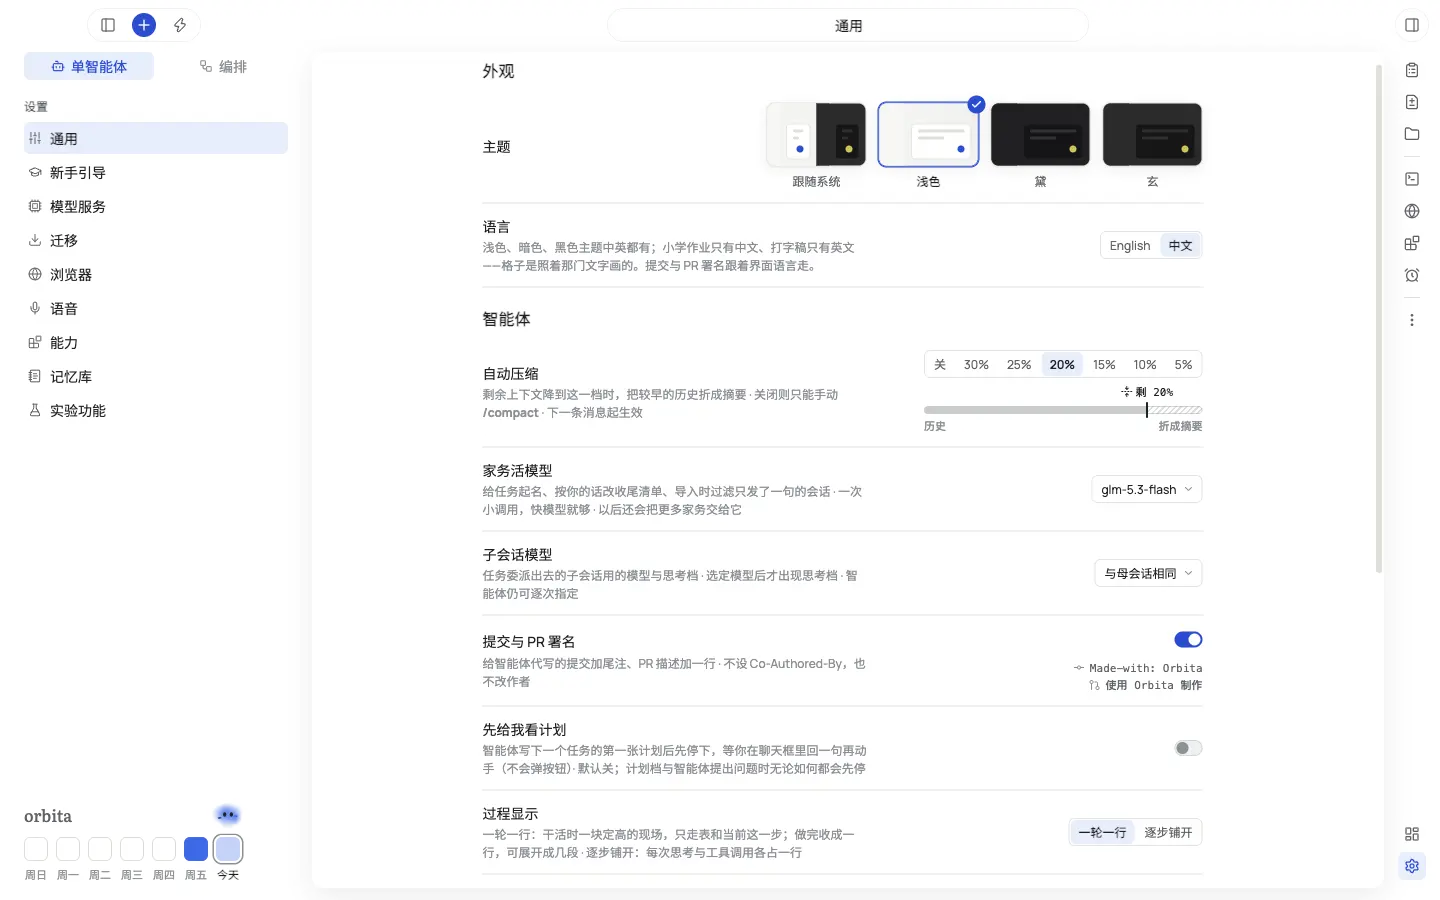
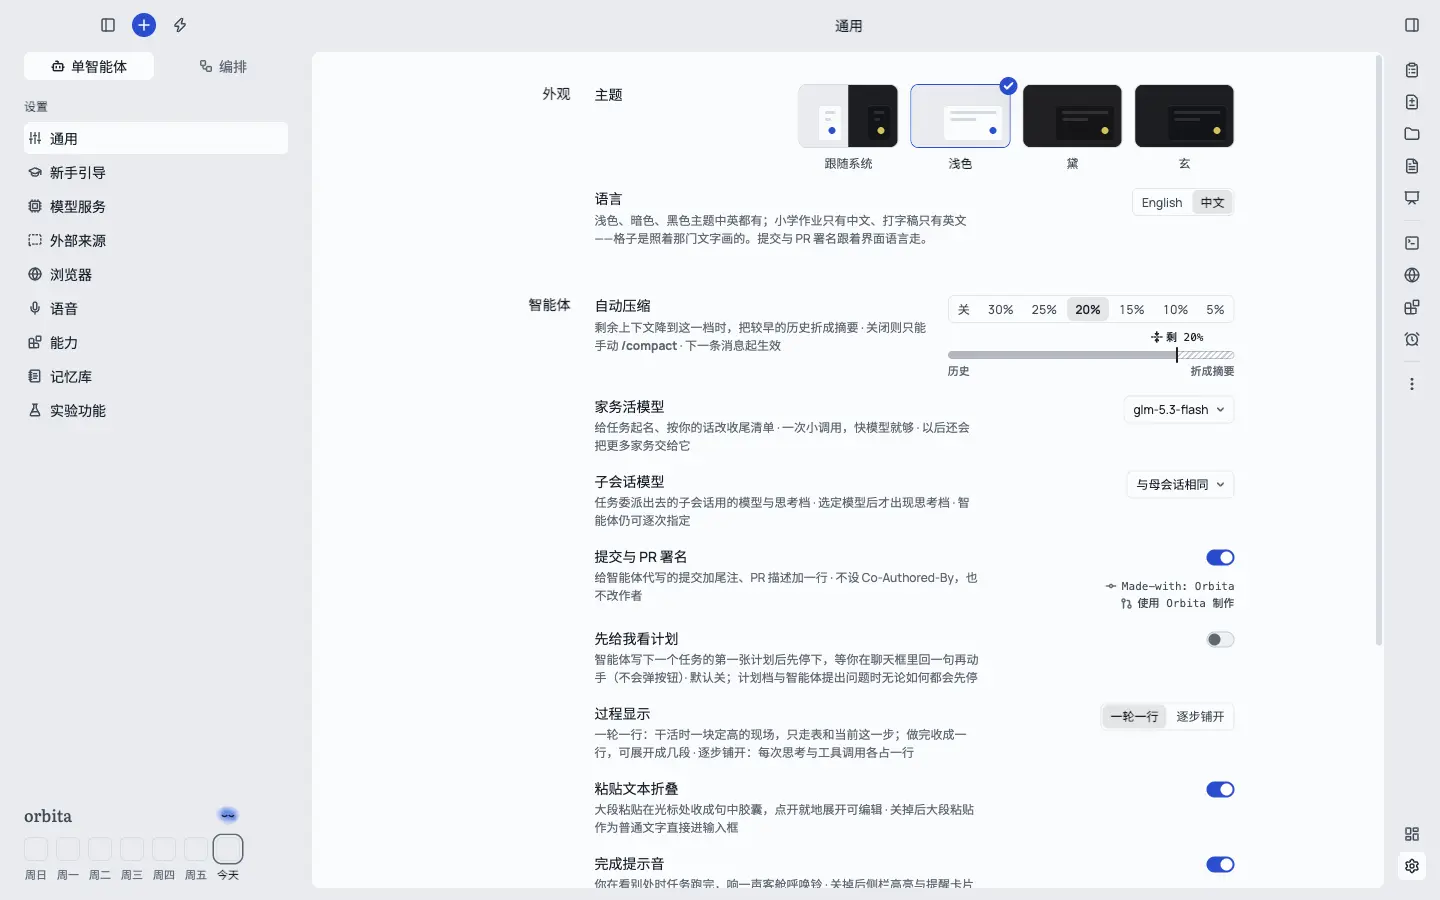
feat(settings): 新手引导重拍「模型分工」与「别的工具里的会话」两张截图
- 第 1 章第 3 页「模型分工」（截图 general）：设置侧栏里还写着「迁移」，按引导的可重跑脚本重拍
  （scripts/onboarding-shots：seed.mjs files → capture.mjs --shot general），浅色与玄各一张。
  这张图里「家务活模型」的说明原写「导入时过滤只发了一句的会话」，那项检查已随聊天记录导入退场，
  文案一并改掉（见同批 renderer commit）后再拍。
- 第 4 页「别的工具里的会话」（截图 external-sources）：外部来源页拆成两块后重拍；框名不变
  （来源清单、第一个开关、只读徽标），shot-boxes.ts 随截图更新。

Made-with: Orbita

diff --git a/src/renderer/src/features/onboarding/shot-boxes.ts b/src/renderer/src/features/onboarding/shot-boxes.ts
@@ -371,20 +371,20 @@ export const SHOT_BOXES: Readonly<Record<string, Readonly<Record<string, Box>>>>
   },
   "external-sources": {
     "list": {
-      "x": 0.299,
-      "y": 0.1467,
-      "w": 0.5986,
+      "x": 0.2726,
+      "y": 0.1711,
+      "w": 0.625,
       "h": 0.5911
     },
     "toggle": {
       "x": 0.8663,
-      "y": 0.1611,
+      "y": 0.1856,
       "w": 0.0194,
       "h": 0.0267
     },
     "readonly": {
-      "x": 0.4017,
-      "y": 0.0844,
+      "x": 0.3892,
+      "y": 0.0833,
       "w": 0.0347,
       "h": 0.02
     }
@@ -419,16 +419,16 @@ export const SHOT_BOXES: Readonly<Record<string, Readonly<Record<string, Box>>>>
   },
   "general": {
     "chore": {
-      "x": 0.3351,
-      "y": 0.497,
-      "w": 0.5,
-      "h": 0.0933
+      "x": 0.4128,
+      "y": 0.4306,
+      "w": 0.4444,
+      "h": 0.0833
     },
     "sub": {
-      "x": 0.3351,
-      "y": 0.5903,
-      "w": 0.5,
-      "h": 0.0933
+      "x": 0.4128,
+      "y": 0.5139,
+      "w": 0.4444,
+      "h": 0.0833
     }
   },
   "home": {
